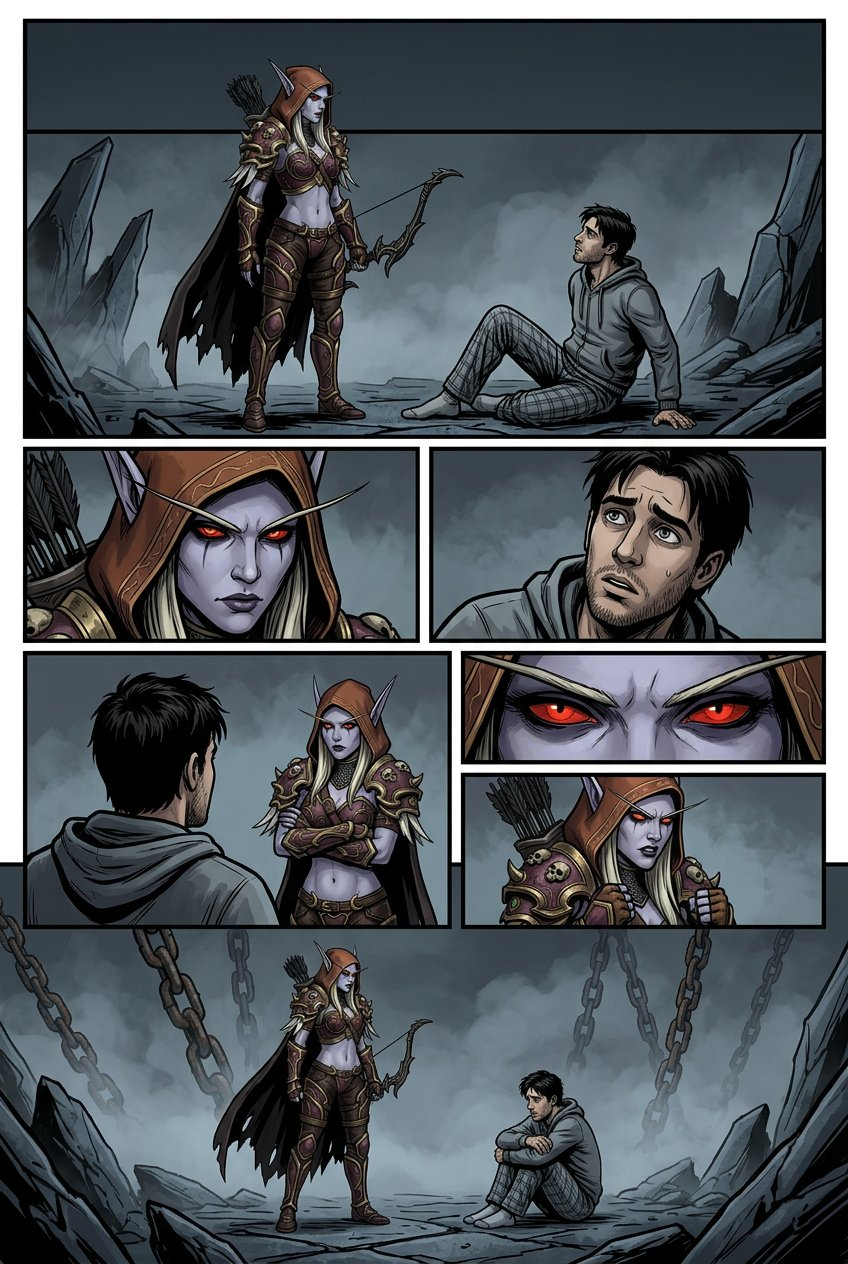
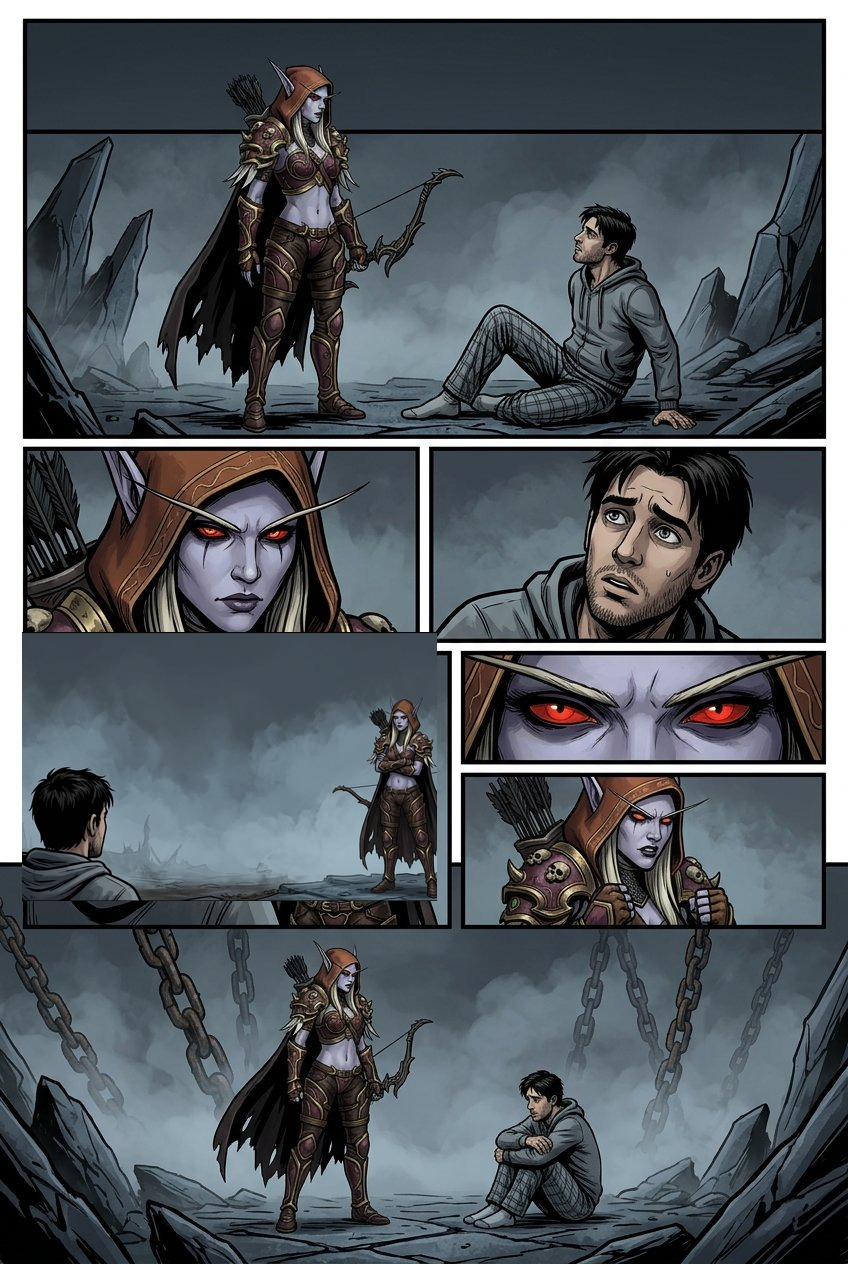
HQ: mais respiro entre balões e rostos — proteção de rostos 5%→8% + re-enquadramento dos 2 close-ups apertados
- PROT_ROSTO agora 8% da largura do quadro: nenhum balão encosta nos rostos em toda a HQ (folga mínima ~40px no celular)
- P5-q3 e P8-q4 re-enquadrados (personagem menor no canto, céu reservado) — eram os únicos close-ups que a proteção nova não acomodava
- Fala de 41 palavras da P8 dividida em 3 balões (texto idêntico), parte final transita para o plano geral (leitura de HQ padrão)
- Âncoras re-ancoradas nos pontos de fala reais; fala longa da P5 vai para o céu novo
- Validador: 94 balões, 0 violações, 0 [FORA], menor fonte 16px | v20260911-15

Changed region(s): [[0.0, 0.4937, 0.5212, 0.7405]]

diff --git a/livro continua/site/hq/data.js b/livro continua/site/hq/data.js
@@ -96,7 +96,7 @@ const PAGINAS = [
    {r:[30,30,1215,585], rostos:[[195,95,75,85],[420,180,65,75]]},
    {r:[30,630,590,310], rostos:[[95,700,190,185]]},
    {r:[650,630,600,310], rostos:[[842,702,138,170]]},
-   {r:[30,960,630,410], rostos:[[425,1085,70,80]]},
+   {r:[30,960,630,410], rostos:[[855,1075,105,105],[30,1265,185,110]], zonas:[[810,1075,160,260]]},
    {r:[670,960,580,200], rostos:[[730,975,420,175]]},
    {r:[670,1180,580,190], rostos:[[795,1195,110,110]], zonas:[[690,1185,90,180]]},
    {r:[30,1390,1215,500], rostos:[[425,1445,70,90],[675,1625,70,80]], zonas:[[390,1530,150,330],[650,1700,130,170]]}
@@ -108,9 +108,9 @@ const PAGINAS = [
    {t:"fala", p:2, de:"nathan", ancora:[900, 880], texto:"Conhecem. Milhões delas."},
    {t:"narra", p:2, texto:"O silêncio ficou muito mais frio."},
    {t:"fala", p:2, de:"sylvanas", ancora:[900, 870], texto:"Explique."},
-   {t:"fala", p:3, de:"nathan", ancora:[235, 1290], texto:"No meu mundo, Azeroth existe dentro de um jogo. Chama-se World of Warcraft. As pessoas se sentam diante de uma máquina, controlam personagens, viajam por Ventobravo, Orgrimmar, Tirisfal... Eu passei anos fazendo isso."},
-   {t:"fala", p:3, de:"sylvanas", ancora:[460, 1120], texto:"Um jogo."},
-   {t:"fala", p:3, de:"nathan", ancora:[240, 1250], texto:"Um jogo."},
+   {t:"fala", p:3, de:"nathan", ancora:[120, 1300], texto:"No meu mundo, Azeroth existe dentro de um jogo. Chama-se World of Warcraft. As pessoas se sentam diante de uma máquina, controlam personagens, viajam por Ventobravo, Orgrimmar, Tirisfal... Eu passei anos fazendo isso."},
+   {t:"fala", p:3, de:"sylvanas", ancora:[908, 1105], texto:"Um jogo."},
+   {t:"fala", p:3, de:"nathan", ancora:[125, 1305], texto:"Um jogo."},
    {t:"fala", p:6, de:"sylvanas", ancora:[460, 1470], texto:"E dentro desse jogo existe alguém chamada Sylvanas Windrunner."},
    {t:"fala", p:6, de:"nathan", ancora:[460, 1475], texto:"Existe a sua história inteira. Desde Quel'Thalas."},
    {t:"fala", p:6, de:"sylvanas", ancora:[460, 1535], texto:"Você é uma armadilha, um espião ou um lunático. Nenhuma das três hipóteses recomenda que eu o deixe vivo."},
@@ -169,7 +169,7 @@ const PAGINAS = [
    {r:[650,30,600,580], rostos:[[795,105,220,260]]},
    {r:[30,630,1215,330], rostos:[[240,655,430,290]]},
    {r:[30,980,590,410], rostos:[[175,1015,190,250]]},
-   {r:[650,980,600,410], rostos:[[855,1015,150,215]]},
+   {r:[650,980,600,410], rostos:[[985,1035,125,115]], zonas:[[940,1150,310,240]]},
    {r:[30,1420,1215,470], rostos:[[175,1555,40,45],[435,1545,40,50]]}
  ],
  elementos:[
@@ -179,7 +179,9 @@ const PAGINAS = [
    {t:"narra", p:2, texto:"Havia nos olhos dela algo que ele só entenderia meses depois: desprezo — não por ele, mas pela possibilidade de ser admirada."},
    {t:"fala", p:3, de:"nathan", ancora:[270, 1205], texto:"Não. Não faço mesmo."},
    {t:"narra", p:3, texto:"Ela franziu a testa, minimamente. Não era a resposta esperada."},
-   {t:"fala", p:4, de:"nathan", ancora:[920, 1155], texto:"Eu conheço a sua história — isso é diferente. Sei datas, nomes, batalhas, coisas que você fez, coisas que fizeram com você. Mas conhecer a história de alguém não significa conhecer a pessoa. Eu nunca ouvi você respirar antes de hoje."},
+   {t:"fala", p:4, de:"nathan", ancora:[1062, 1115], tamanho:20, texto:"Eu conheço a sua história — isso é diferente."},
+  {t:"fala", p:4, de:"nathan", ancora:[1062, 1125], tamanho:20, texto:"Sei datas, nomes, batalhas, coisas que você fez, coisas que fizeram com você."},
+  {t:"fala", p:5, de:"nathan", ancora:[455, 1545], texto:"Mas conhecer a história de alguém não significa conhecer a pessoa. Eu nunca ouvi você respirar antes de hoje."},
    {t:"narra", p:5, texto:"O vento da Gorja passou entre eles. Sylvanas não respondeu. Levou muito tempo para não responder."}
  ]},
 /* ==================== PÁGINA 9 — A caminhada (quadros provisórios) ==================== */

diff --git a/livro continua/site/hq/index.html b/livro continua/site/hq/index.html
@@ -12,7 +12,7 @@
 <link rel="preconnect" href="https://fonts.googleapis.com">
 <link rel="preconnect" href="https://fonts.gstatic.com" crossorigin>
 <link href="https://fonts.googleapis.com/css2?family=Bangers&family=Oswald:wght@400;500;600;700&family=Spectral:ital,wght@1,400;1,500;1,600" rel="stylesheet">
-<link rel="stylesheet" href="hq.css?v=20260911-14">
+<link rel="stylesheet" href="hq.css?v=20260911-15">
 </head>
 <body>
 
@@ -52,9 +52,9 @@
 <div class="dots" id="dots"></div>
 <div class="indicador" id="ind"></div>
 
-<script src="layout.js?v=20260911-14"></script>
-<script src="data.js?v=20260911-14"></script>
-<script src="leitor.js?v=20260911-14"></script>
+<script src="layout.js?v=20260911-15"></script>
+<script src="data.js?v=20260911-15"></script>
+<script src="leitor.js?v=20260911-15"></script>
 <script>
 document.getElementById("capaBt").addEventListener("click",()=>{
   document.getElementById("capa").classList.remove("oculta");

diff --git a/livro continua/site/hq/ler.html b/livro continua/site/hq/ler.html
@@ -12,7 +12,7 @@
 <link rel="preconnect" href="https://fonts.googleapis.com">
 <link rel="preconnect" href="https://fonts.gstatic.com" crossorigin>
 <link href="https://fonts.googleapis.com/css2?family=Bangers&family=Oswald:wght@400;500;600;700&family=Spectral:ital,wght@1,400;1,500;1,600" rel="stylesheet">
-<link rel="stylesheet" href="hq.css?v=20260911-14">
+<link rel="stylesheet" href="hq.css?v=20260911-15">
 </head>
 <body>
 
@@ -52,9 +52,9 @@
 <div class="dots" id="dots"></div>
 <div class="indicador" id="ind"></div>
 
-<script src="layout.js?v=20260911-14"></script>
-<script src="data.js?v=20260911-14"></script>
-<script src="leitor.js?v=20260911-14"></script>
+<script src="layout.js?v=20260911-15"></script>
+<script src="data.js?v=20260911-15"></script>
+<script src="leitor.js?v=20260911-15"></script>
 <script>
 document.getElementById("capaBt").addEventListener("click",()=>{
   document.getElementById("capa").classList.remove("oculta");

diff --git a/livro continua/site/hq/layout.js b/livro continua/site/hq/layout.js
@@ -28,7 +28,7 @@ const PADV    = { fala:34, rouca:34, sussurro:32, grito:44, narra:32 };
 const LH      = { fala:1.22, rouca:1.22, sussurro:1.22, grito:1.10, narra:1.42 };
 
 const MARG = 0.05;        // margem das bordas do quadro (5%)
-const PROT_ROSTO = 0.05;  // distância segura de rostos (5% da largura)
+const PROT_ROSTO = 0.08;  // distância segura de rostos (8% da largura)
 const PROT_ZONA = 0.03;   // distância de mãos/armas/objetos (3%)
 const AREA_MAX = 0.25;    // balão ≤ 25% da área do quadro
 const GAP = 14;           // respiro mínimo entre balões

diff --git a/livro continua/site/hq/leitor.js b/livro continua/site/hq/leitor.js
@@ -6,7 +6,7 @@
    Rabichos são desenhados sobre os balões REAIS medidos no DOM.
    ============================================================ */
 const PW = 1280, PH = 1920;
-const VER = "20260911-14";
+const VER = "20260911-15";
 const NS = "http://www.w3.org/2000/svg";
 const COM_RABICHO = ["fala","grito","rouca","sussurro"];
 
